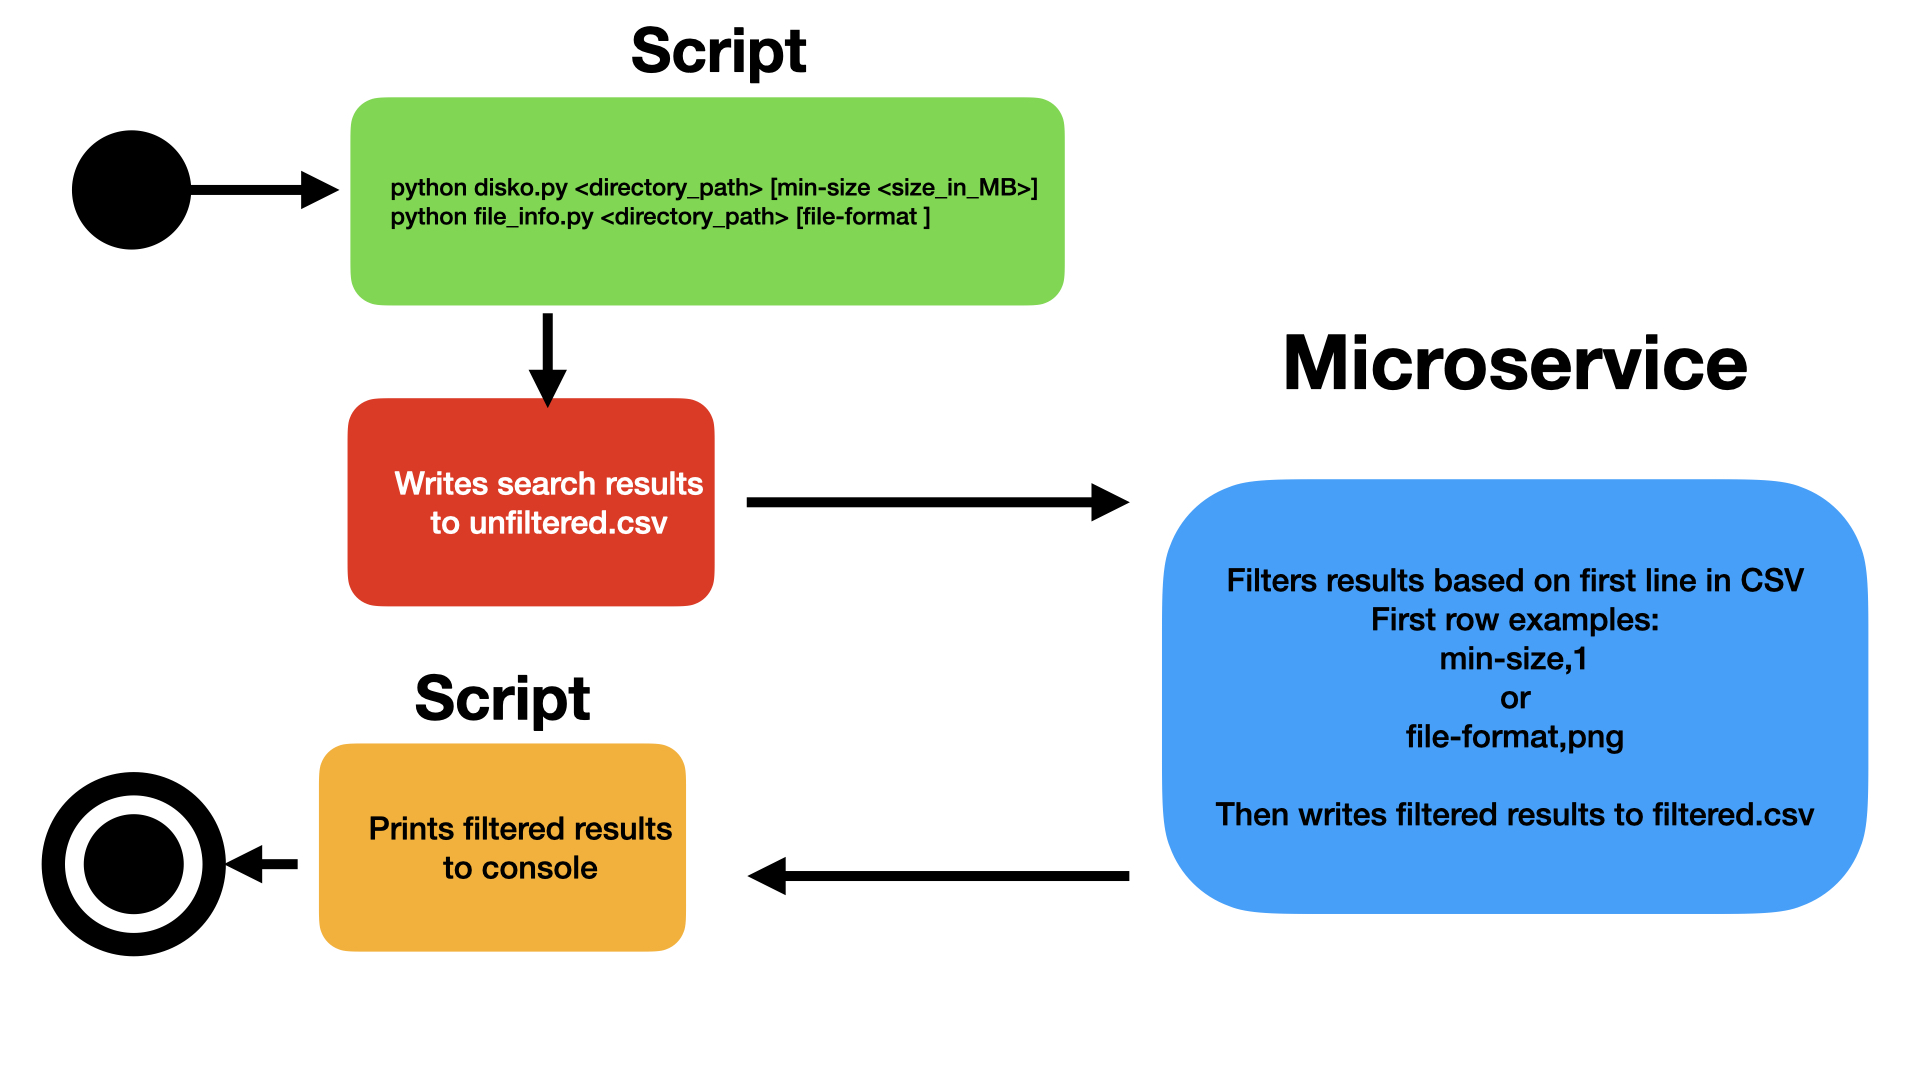
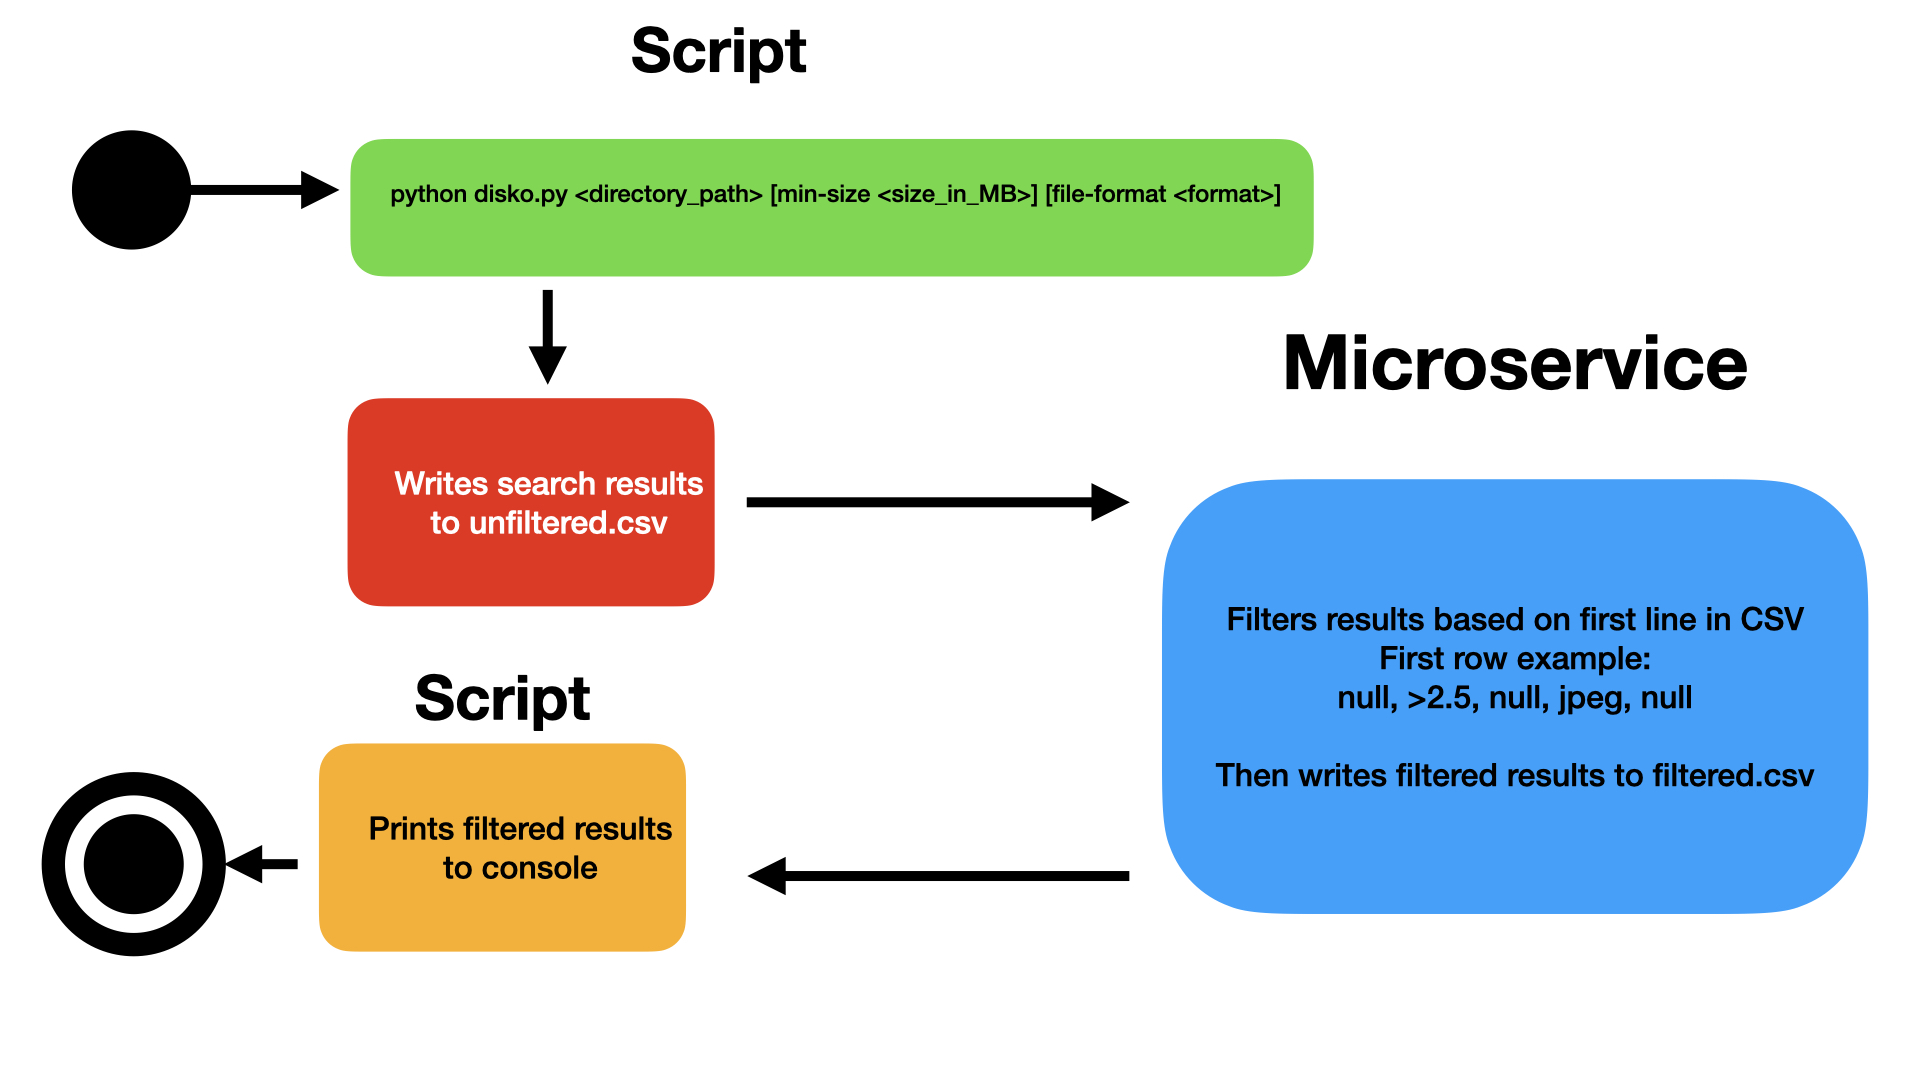
update readme

Changed region(s): [[0.1562, 0.0917, 0.6875, 0.3667], [0.625, 0.5194, 0.9375, 0.7639]]

diff --git a/README.md b/README.md
@@ -1,8 +1,7 @@
 # disko-cli
 
 To use this script, there are two possible ways to filter files. Either by size, or by file format: 
-- python disko.py <directory_path> [min-size <size_in_MB>]
-- python disko.py <directory_path> [file-format <format>]
+- python disko.py <directory_path> [min-size <size_in_MB>] [file-format <format>]
 
 [Example CSV output](example-csv/unfiltered.csv) 
 
